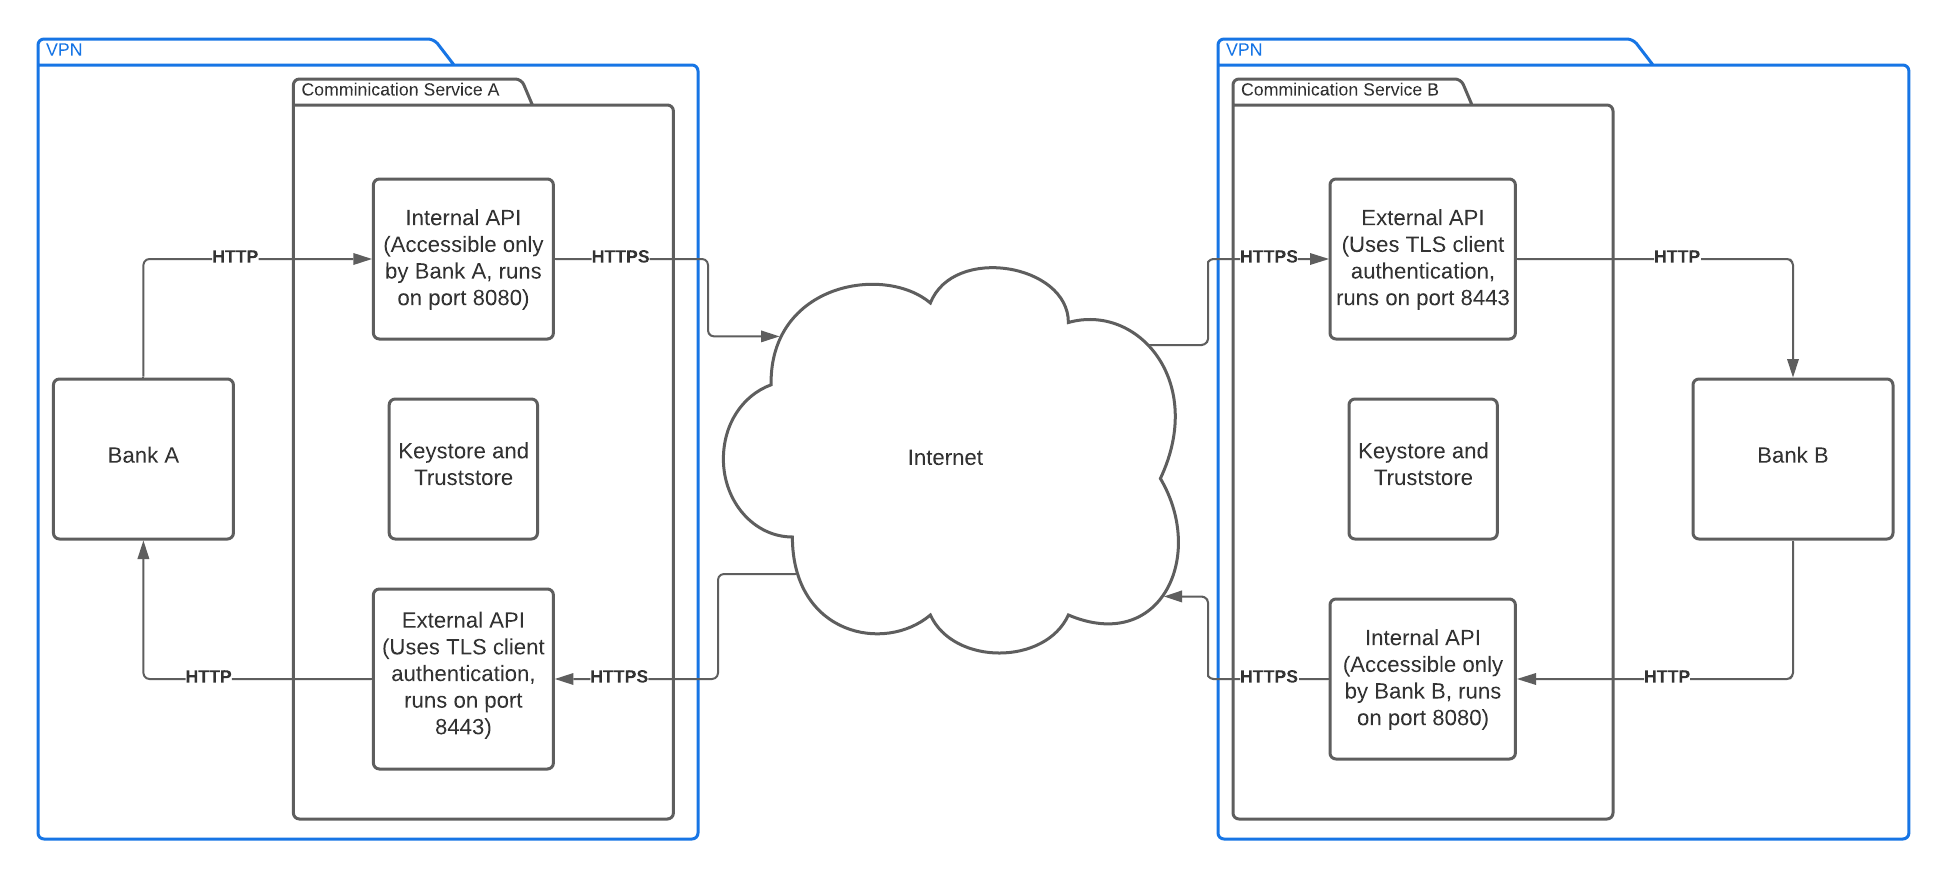
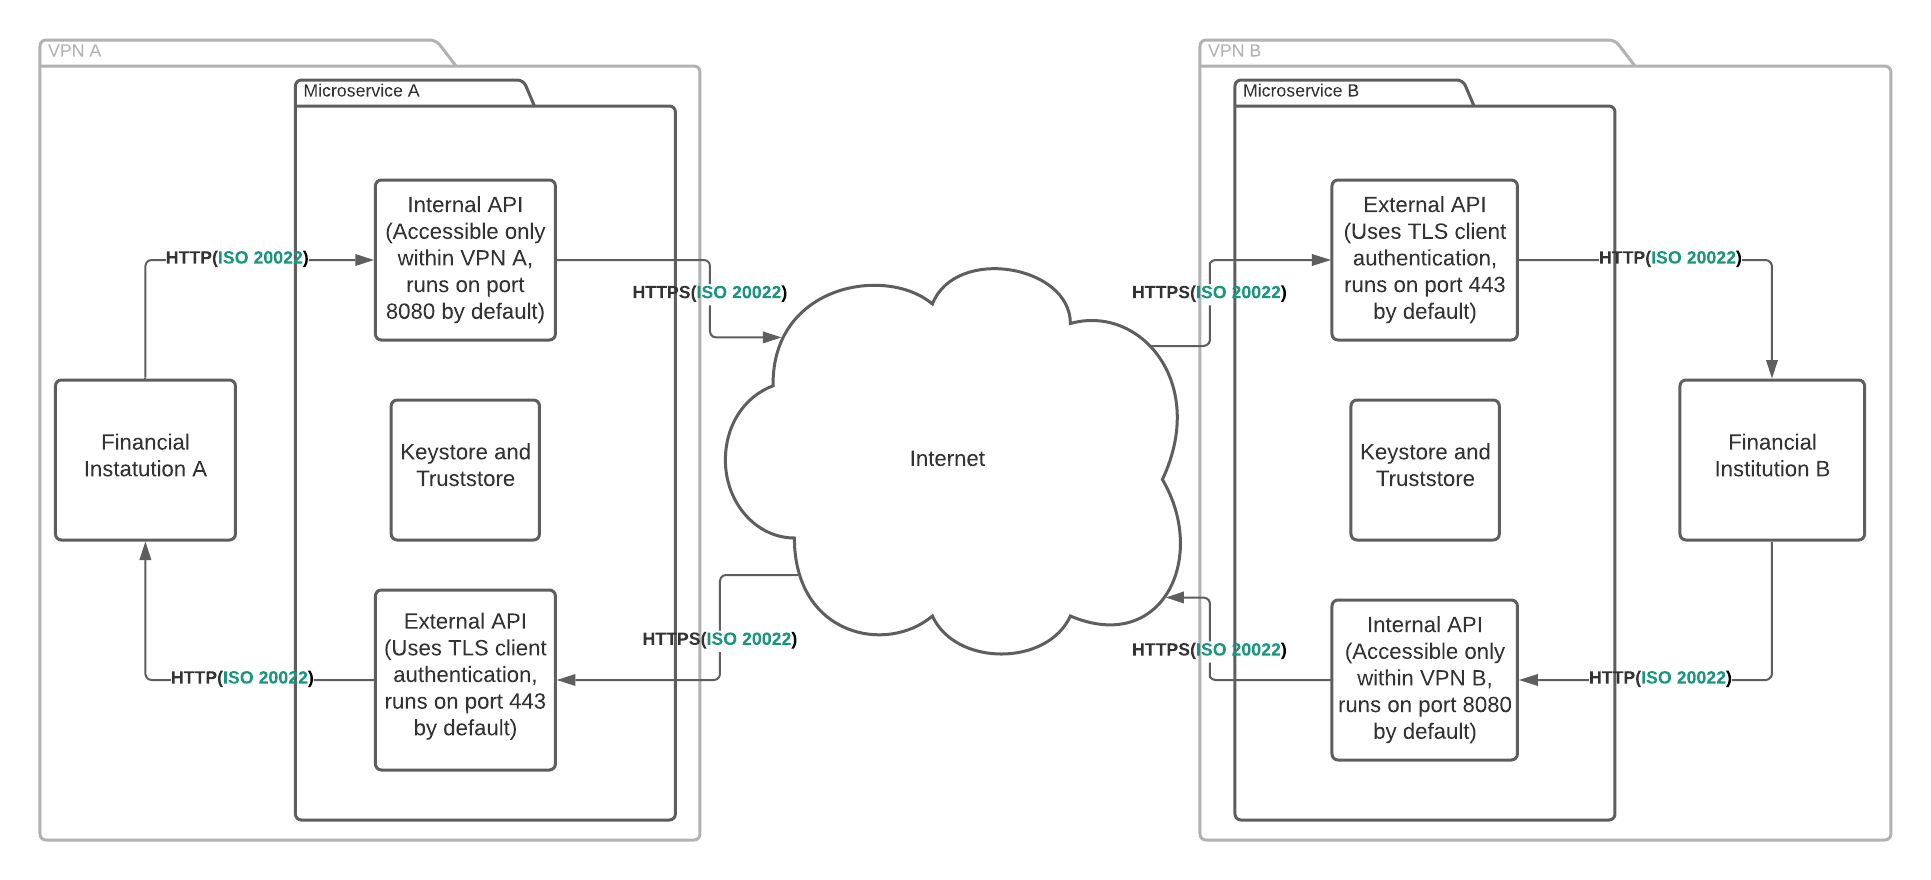
feature/docs (#22)
* updated openapi, error messages, and filled out readme

* add architecture and update system overview

* name change

* try environment variable

diff --git a/README.md b/README.md
@@ -1,36 +1,134 @@
-# Decentralized ISO20022
-Financial Inclusion with decentralized ISO20022 as a microservice.
+# Decentralized ISO20022 communication service
+Financial Inclusion with decentralized ISO20022 as a bidirectional communication service. It consists of two components, the internal API and the external API.
+The internal API should be kept private and only accessible by your own financial institution, which could be done using for example a
+VPN or a firewall. Its purpose is to validate outgoing ISO 20022 messages before they are sent to a remote financial institution. The external API is
+publicly available for remote financial institutions and can accept and validate incoming ISO 20022 messages before forwarding them
+to an internal handler service.
 
-## Technologies
-The technologies used in the project. 
-- [Spring Boot](https://github.com/spring-projects/spring-boot) for the framework.
-- [Prowide-ISO20022](https://github.com/prowide/prowide-iso20022) for parsing, creating and manipulating ISO20022 messages.
+## Table of Contents
+ - [1. System Overview](#1-system-overview)
+ - [2. Sequence Diagram](#2-sequence-diagram)
+ - [3. Use In Settlement And Payments](#3-use-in-settlement-and-payments)
+ - [4. Technologies](#4-technologies)
+ - [5. Demo](#5-demo)
+ - [6. How To Use](#6-how-to-use)
+   - [6.1. Endpoints](#61-endpoints)
+   - [6.2. Certificates](#62-certificates)
+   - [6.3. Sending Messages](#63-sending-messages)
+   - [6.4. Receiving Messages](#64-receiving-messages)
+   - [6.5. Configuration](#65-configuration)
+ - [7. Setup](#7-setup)
+   - [7.1. Using Linux](#71-using-linux)
+   - [7.2. Using Windows](#72-using-windows)
+   - [7.3. Using Docker](#73-using-docker)
+ - [8. Software Architecture](#8-software-architecture)
 
-## System overview
-An overview of the system.
+
+## 1. System overview
+An overview of the system, using VPNs to protect the internal APIs.
 ![Image of the system overview](images/system-overview.png)
 
-## Sending and recieving a pacs.008 message
-A sequence diagram for sending and recieving a pacs.008 message with the microservice. Communication service represents an instance of the microservice.
+## 2. Sequence diagram
+A sequence diagram for sending and receiving a pacs.008 message with the communication service.
 
-![Image of a sequence diagram for sending and recieving a pacs.008 message](images/sequence-diagram-01.png)
+![Image of a sequence diagram for sending and receiving a pacs.008 message](images/sequence-diagram-01.png)
 
-## Use in settlement and payments
-An example use case of the microservice in payments with FX settlements on a distributed ledger, and the different ISO20022 messages that can be used for communication.
+## 3. Use In Settlement And Payments
+An example use case of the communication service in payments with FX settlements on a distributed ledger, and the different ISO20022 messages that can be used for communication.
 ![Image of a sequence diagram in a settlement and payments use case](images/sequence-diagram-02.png)
 
-## Demo
-The following instructions describe how to run a demo of the system using a mock bank system and the default configuration.
-   1. Start the microservice and mock bank system by running `docker-compose -f docker-compose.demo.yml up --build`.
-   2. Send a post request to `http://localhost:8080/api/v1/pacs` containing a Pacs.008 message in the message body.
-      An example request payload can be found in `examples/demo/docker-demo.xml`.
-   3. If successful the response should contain a Pacs.002 message, otherwise an error message explaining what went wrong.
+## 4. Technologies
+The technologies used in the project. 
+- [Spring Boot](https://github.com/spring-projects/spring-boot) is used as the framework.
+- [Prowide-ISO20022](https://github.com/prowide/prowide-iso20022) for parsing, editing, and validating ISO20022 messages.
 
-## Configuration
+## 5. Demo
+The following instructions describe how to run a demo of the system using a mock financial institution handler (mock bank system) and the default configuration.
+   1. Start the communication service and mock bank system by running `docker-compose -f docker-compose.demo.yml up --build`.
+   2. Send a post request to `http://localhost:8080/api/v1/pacs` containing a `pacs.008` message in the message body.
+      An example request payload can be found in `examples/demo/docker-demo.xml`.
+   3. If successful the response should contain a `pacs.002` message, otherwise an error message explaining what went wrong.
+
+## 6. How To Use
+This section explains how to use the communication service.
+
+### 6.1 Endpoints
+The communication service's internal and external APIs are RESTful and have the following URI structure.
+```
+/api/v1/<BUSINESS-PROCESS>
+```
+Where <BUSINESS-PROCESS> is the message type that is accepted by the endpoint in the entity body of POST
+HTTP requests. At the moment, only `pacs` is supported. Fore more details, see the [OpenAPI description](OpenAPI/decentralized-iso20022-v1.yaml).
+folder.
+
+### 6.2 Certificates
+The communication service uses both TLS client and server certificates for authentication. This means that the financial institutions that
+wish to communicate with each other using the communication service must add the other party's certificate into their truststore. When
+adding a certificate to your truststore, make sure that you **trust it and all certificates that are signed by it to exchange payments
+with your financial institution**. It is recommended that each financial institution uses a self-signed certificate, and that each financial
+institution stores the self-signed certificate of each financial institution that they trust in their truststore. Trusting root certificate CAs
+commonly used on the web **should be avoided**.
+
+Generating a key- and truststore can be accomplished using for example [keytool](https://docs.oracle.com/cd/E19798-01/821-1841/gjrgy/).
+If you use that page as a guide however it is **not** recommended to use the `-trustcacerts` flag. Furthermore, it is recommended to
+use the PKCS12 file format (`.p12` file extension) for key- and truststores instead of the older JKS format. (`.jks` file extension)
+
+### 6.3 Sending Messages
+To send a message, start by creating a `pacs.008` message including a business header, such as `head.001`.
+This message header should contain the hostnames of the sender and the recipient of the message in its `Fr` and
+`To` tags. An example is available below.
+```xml
+<h:AppHdr xmlns:h="urn:iso:std:iso:20022:tech:xsd:head.001.001.02">
+    <h:Fr>
+        <h:FIId>
+            <h:FinInstnId>
+                <!--The sending financial institution has the hostname "example.org" and its external API runs on port 443-->
+                <h:Nm>example.org</h:Nm>
+            </h:FinInstnId>
+        </h:FIId>
+    </h:Fr>
+    <h:To>
+        <h:FIId>
+            <h:FinInstnId>
+                <!--The receiving financial institution has the hostname "example.com" and its external API runs on port 1234-->
+                <h:Nm>example.com:1234</h:Nm>
+            </h:FinInstnId>
+        </h:FIId>
+    </h:To>
+    <!--Further tags here...-->
+</h:AppHdr>
+<!--ISO 20022 message here...-->
+```
+The `Fr` tag must contain the hostname of your financial institution. Specifically, it must be a subject alternative name of your
+personal X.509 certificate. The `To` tag will be used by the communication service to determine the financial institution the message should
+be sent to. The port numbers of both the sending and receiving financial institution's external APIs can optionally be specified, but
+if they are not present they are assumed to be located on port 443.
+
+After the message is constructed, it should be sent to your financial institutions internal API by sending a HTTP request using the
+POST method to its `/api/v1/pacs` endpoint. The response can either be a `pacs.002` message indicating success, or an error message.
+An example of an error message can be found below. For a list of all error statuses that can be returned by the internal and
+external APIs, see the [OpenAPI description](OpenAPI/decentralized-iso20022-v1.yaml)
+
+```xml
+<?xml version="1.0" encoding="UTF-8" standalone="no"?>                                                            <!--The XML header-->
+<error>
+    <timestamp>2021/04/21 10:36:58</timestamp>                                                                    <!--The time that the error occurred-->
+    <status>502</status>                                                                                          <!--The HTTP status of the error message-->
+    <code>BAD GATEWAY</code>                                                                                      <!--The Reason phrase of the HTTP status-->
+    <message>The remote financial institution failed to handle the message. Please try again later.</message>     <!--A detailed error message-->
+</error>
+```
+
+### 6.4 Receiving Messages
+The external API which receives messages from other financial institutions will only validate the messages it receives, it will not "act"
+upon them. Therefore, after it has validated a message, it will expect that a "financial institution handler" will act upon it.
+The URI of this handler must be specified in `application-external.properties` in accordance with [6.5. Configuration](#65-configuration).
+
+### 6.5 Configuration
 The following instructions describe how to configure the system and integrate it into an existing bank system.
    1. Generate a Keystore and a Truststore that should be used by the system. The Keystore should contain your own institution's
       personal X.509 Certificate with a unique alias and corresponding private key. The Truststore should contain the certificates of the financial
-	  institutions that are deemed as trustworthy.
+	  institutions that are deemed as trustworthy. See [6.2. Certificates](#62-certificates) for details.
    2. Navigate to `/decentralizediso20022/src/main/resources` and replace the template `keystore.p12` and `truststore.p12` with the ones
       from the previous step.
    3. Edit the configuration in the `application.properties` files. Below is a list of the properties that is configurable. Properties
@@ -42,17 +140,33 @@ The following instructions describe how to configure the system and integrate it
          - `server.ssl.trust-store`:  The path to your truststore. This field should always be `/src/main/resources/<truststore-filename>`.
          - `server.ssl.trust-store-password`: The password of your truststore.
       - `application-internal.properties`
-         - `server.port`: The TCP port that the internal API runs on. If changed and docker is used,
+         - `server.port`: The TCP port that the internal API runs on. If changed and docker is used, the `ports` property in
                           `/decentralizediso20022/docker-compose.internal.yml` must be updated to match it.
-		 - `server.ssl.enabled`: Should be set to `false`, as usage of TLS in the internal API has not been sufficiently tested.
+		 - `server.ssl.enabled`: Should be set to `false`, as usage of TLS in the internal API is experimental and support
+                                 is not confirmed.
 	  - `application-external.properties`
-         - `server.port`: The TCP port that the external API runs on. If changed and docker is used,
-                          `/decentralizediso20022/docker-compose.external.yml` must be updated to match it.
+         - `server.port`: The TCP port that the external API runs on. If changed and docker is used, the `ports` property in
+                          `/decentralizediso20022/docker-compose.external.yml` must be updated to match it. Note that any financial
+                          institution that will be interacting with this API must be aware of its port.
 		 - `message.handler.endpoint`: The full URL of the handler that valid ISO 20022 messages should be forwarded to by the external API.
 
-## Setup
+## 7. Setup
 The following instructions describe how to start up the system after configuring it.
+Start by navigating to `/decentralizediso20022`.
 
-### Using Docker
-Navigate to `/decentralizediso20022` and start the microservice by running
-`docker-compose -f docker-compose.external.yml -f docker-compose.internal.yml up --build`
+### 7.1 Using Linux
+Run `./mvnw spring-boot:run -Dspring-boot.run.profiles=internal` to start the
+internal API and run `./mvnw spring-boot:run -Dspring-boot.run.profiles=external`
+in a separate terminal window to start the external API.
+
+### 7.2 Using Windows
+Run `mvnw.cmd spring-boot:run -Dspring-boot.run.profiles=internal` to start the
+internal API and run `mvnw.cmd spring-boot:run -Dspring-boot.run.profiles=external`
+in a separate command prompt window to start the external API.
+
+### 7.3 Using Docker
+Start the communication service by running `docker-compose -f docker-compose.external.yml -f docker-compose.internal.yml up --build`
+
+## 8. Software Architecture
+An architecture of the software, which follows domain driven design.
+![Software Architecture](images/software-architecture.png)
